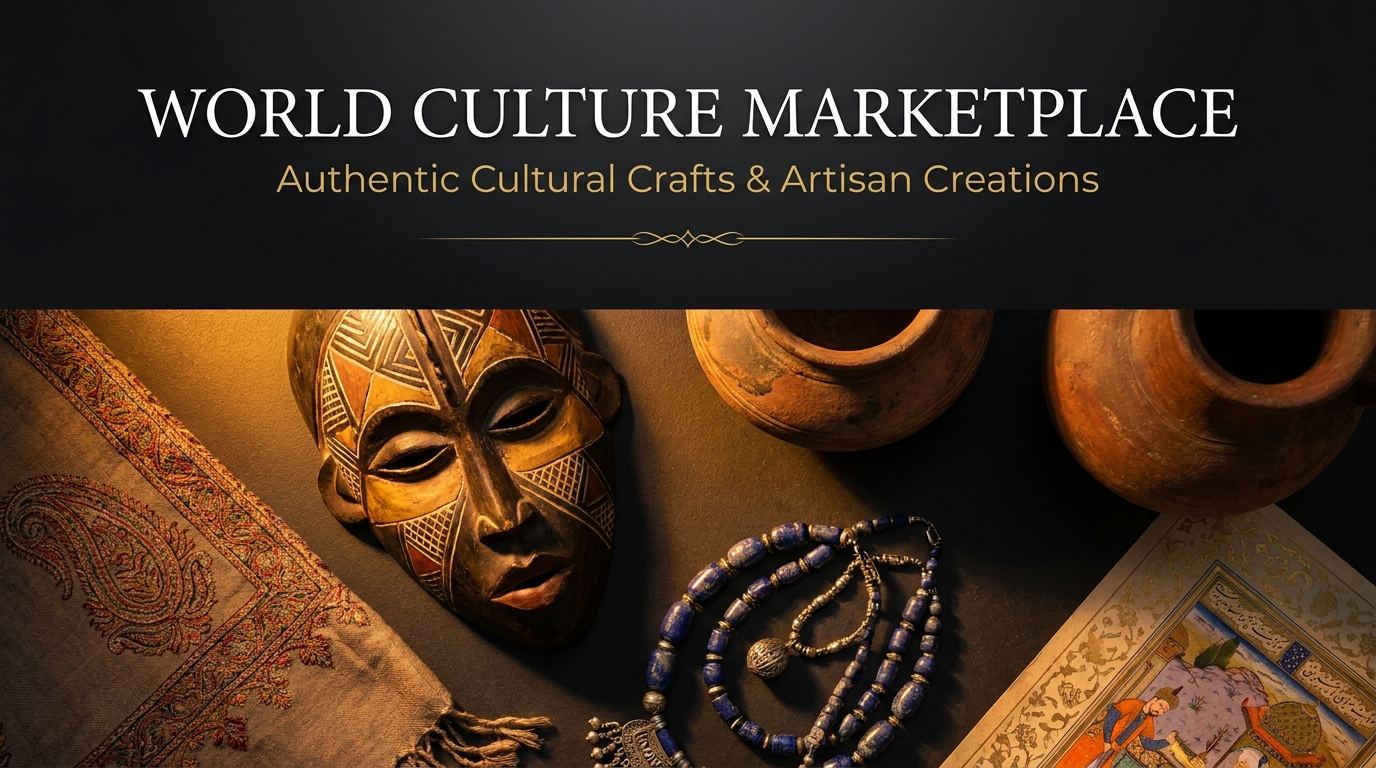
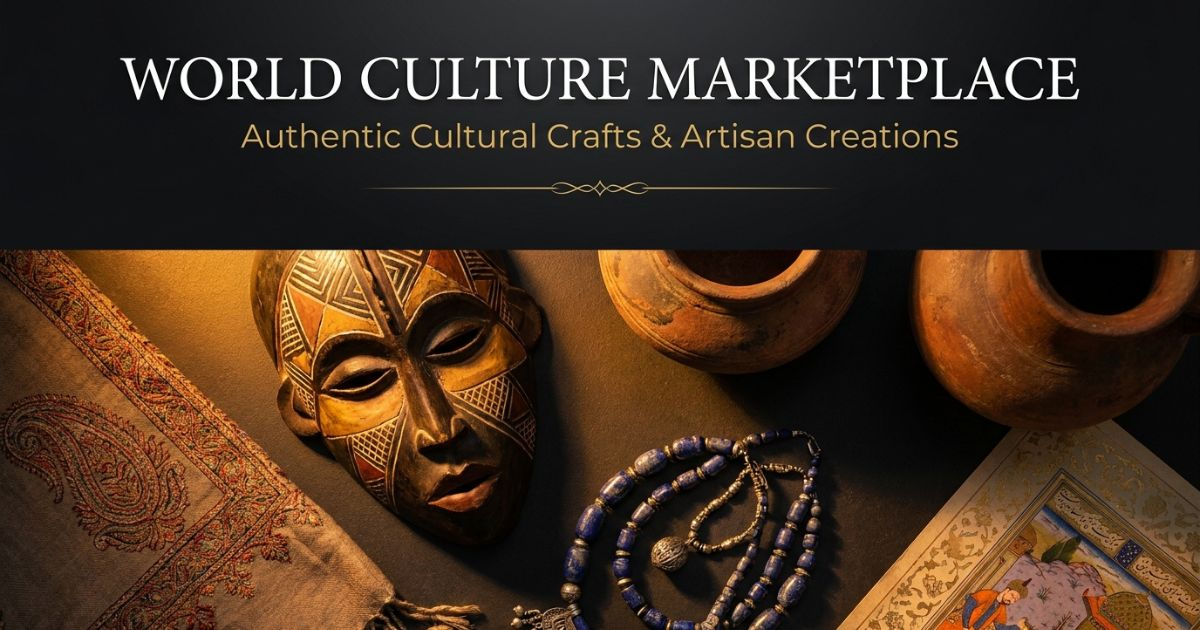
fb:app_id added

diff --git a/src/app/layout.jsx b/src/app/layout.jsx
@@ -145,6 +145,11 @@ export async function generateMetadata() {
       index: true,
       follow: true,
     },
+    // ✅ fb:app_id added here — Facebook Sharing Debugger er
+    // "Missing Properties" warning fix korar jonno
+    other: {
+      'fb:app_id': '1697718924707801',
+    },
     openGraph: {
       title: 'World Culture Marketplace – Authentic Global Artisan Crafts & Cultural Goods',
       description: 'Join a growing global community of artists and creators. WCM helps you gain visibility and connect with a global audience.',
@@ -175,7 +180,15 @@ export default async function RootLayout({ children }) {
     .filter(Boolean)
     .join('\n');
 
-  const headElements = parseHeadTags(verificationHtml);
+  // ✅ try/catch wrap kora hoyeche - malformed/unexpected rawHtml
+  // ashle pure site crash na kore, just verification tags skip hobe
+  let headElements = [];
+  try {
+    headElements = parseHeadTags(verificationHtml);
+  } catch (error) {
+    console.error('parseHeadTags crashed:', error);
+    headElements = [];
+  }
 
   // ✅ Website Schema
   const websiteSchema = {